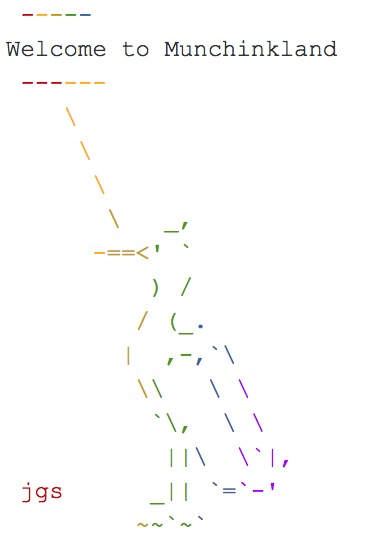
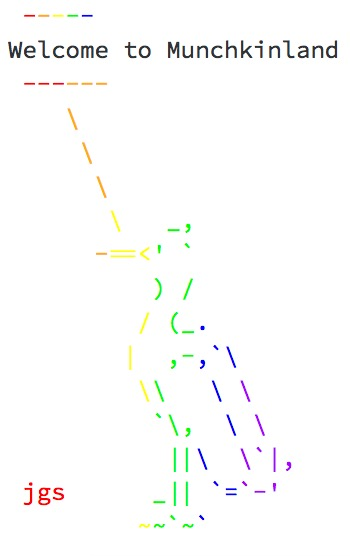
yoda of many greens

diff --git a/README.md b/README.md
@@ -97,28 +97,12 @@ library(cowsay)
 say(what = "holygrail", 
     by = "yoda",
     what_color = "olivedrab",
-    by_color = c("tomato1", "saddlebrown", "springgreen4", "turquoise2"))
+    by_color = colors()[which(grepl("green", colors()))])
 ```
 
 <p align="left">
 
-<img src="./man/img/yoda.jpg" alt="yoda" height="300px">
-
-</p>
-
-The default is to color vertically, but horizontal is also an option. If
-you want to make a Dutch shark, you can set the `direction` param to
-“horizontal”.
-
-``` r
-multi_color(things[["shark"]], 
-            colors = c("darkred", "white", "darkblue"),
-            direction = "horizontal")
-```
-
-<p align="left">
-
-<img src="./man/img/dutch_shark.jpg" alt="dutch_shark" height="400px">
+<img src="./man/img/yoda.jpg" alt="yoda" height="460px">
 
 </p>
 
@@ -157,6 +141,24 @@ tryCatch(log("foo"), error = function(e) message(my_msg))
 
 </p>
 
+The default is to color vertically, but horizontal is also an option. If
+you want to make a Dutch shark, you can set the `direction` param to
+“horizontal”.
+
+``` r
+multi_color(things[["shark"]], 
+            colors = c("darkred", "white", "blue"),
+            direction = "horizontal")
+```
+
+<p align="left">
+
+<img src="./man/img/dutch_shark_old.jpg" alt="dutch_shark_old" height="300px">
+
+</p>
+
+Or just use for things you want to message your user.
+
 ``` r
 this_variable <- "foo"
 this_option <- "bar"
@@ -173,3 +175,5 @@ say(what =
 <img src="./man/img/foo_to_bar.jpg" alt="foo_to_bar" height="200px">
 
 </p>
+
+That’s it\! PRs & bug reports v welcome.
